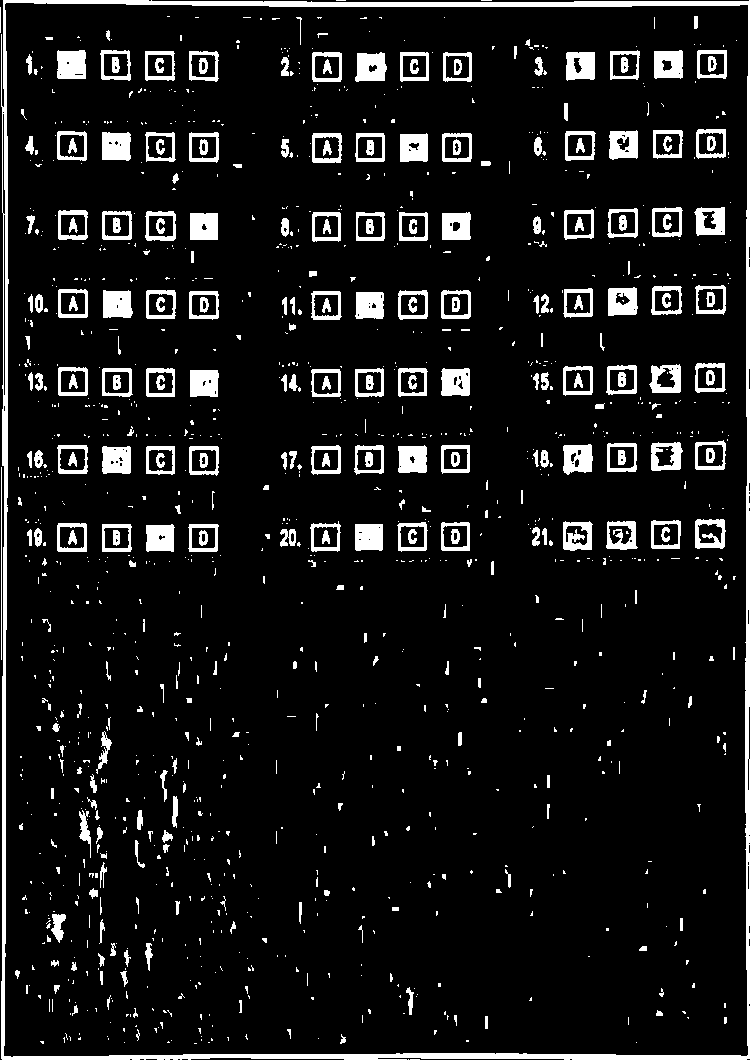
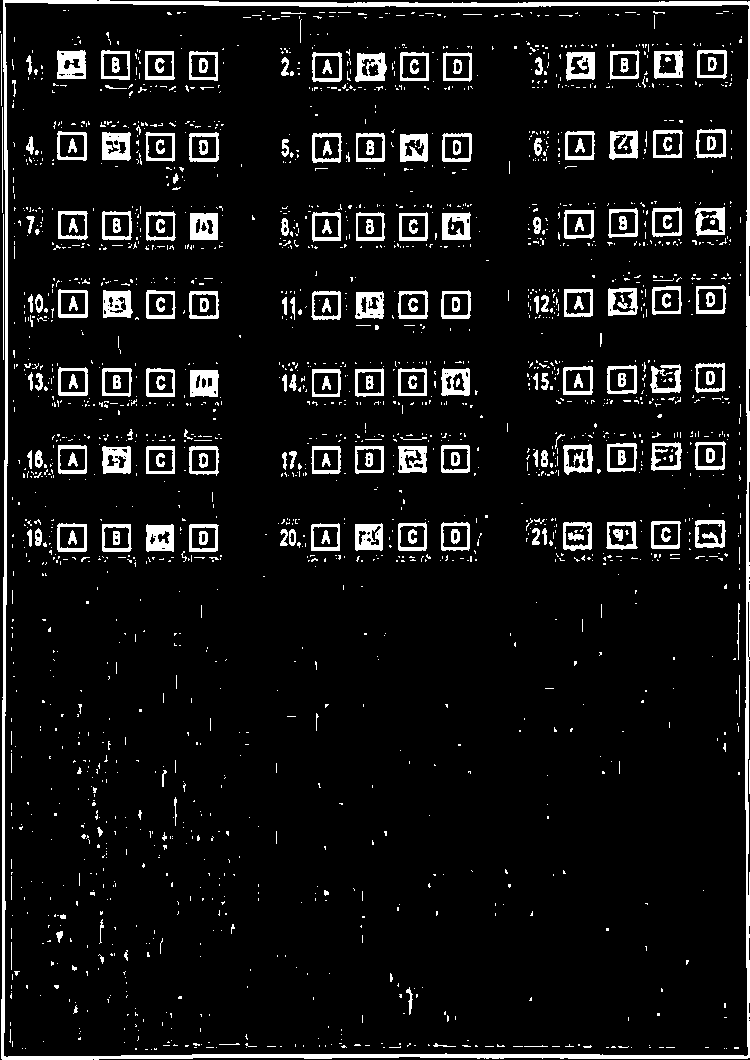
兼容连续出现空白的bug

diff --git a/answer-sheet-scan/utils.py b/answer-sheet-scan/utils.py
@@ -325,31 +325,37 @@ def sort_by_row_hs2(cnts_pos):
     cell_width = get_median([x[2] for x in queues])
     #3.对队列里面的值有效性和完整性进行判断和修复
     
-    final_rows = []
-    insert_cnt = 0
-    first_cell = queues[0]
-    if checkRect(first_cell, (min_left,min_top,cell_width,cell_height)) == 1:
-        final_queue = [first_cell]
-    else:
-        final_queue = [(min_left,min_top,cell_width,cell_height)] #自己补全第一个
-    for i,pos in enumerate(queues[1:]):
-        last_rect = final_queue[-1]#取队列里面倒数第一个
-        if (i+1+insert_cnt) % settings.CHOICE_COL_COUNT == 0 and (i+insert_cnt) > 1:# 一行第一个元素
+    final_queue = []
+    insert_cnt = 0        
+    ## 算法一    
+    i = 0
+    while i+ insert_cnt < settings.CHOICE_CNT_COUNT -1 and i < len(queues):
+        if (len(final_queue) >0):
+            last_rect = final_queue[-1]
+        else:
+            last_rect = queues[0]
+        if i == 0: #第一个选项
+            print '++++++' + str(i)
+            expect_rect =  (min_left,min_top,cell_width,cell_height) #预估计矩形
+        elif (i+insert_cnt) % settings.CHOICE_COL_COUNT == 0 and (i+insert_cnt) > 1:# 非一行第一个元素
             print '----' + str(i)
             expect_rect = (min_left,last_rect[1]+question_margin_y,cell_width,cell_height) #预估计矩形
-        elif (i+1+insert_cnt) % settings.CHOICES_PER_QUE == 0 and (i+1+insert_cnt)% settings.CHOICE_COL_COUNT <> 0 : # 相邻的问题
+        elif (i+insert_cnt) % settings.CHOICES_PER_QUE == 0 and (i+insert_cnt)% settings.CHOICE_COL_COUNT <> 0 : # 相邻的问题
             print '======' + str(i)
             expect_rect = (last_rect[0]+last_rect[2]+question_margin_x,last_rect[1],cell_width,cell_height) #预估计矩形 
         else:
             print '-=-=-=' + str(i)
-            expect_rect = (last_rect[0]+last_rect[2]+choice_margin_x,last_rect[1],cell_width,cell_height)
-        check_result = checkRect(expect_rect,pos)    
+            expect_rect = (last_rect[0]+last_rect[2]+choice_margin_x,last_rect[1],cell_width,cell_height)#同一个问题相邻的选项
+        check_result = checkRect(expect_rect,queues[i])    
         if check_result == 1 or check_result == 3:
-            final_queue.append(pos)
-        elif check_result == 2:
+            final_queue.append(queues[i])
+            i = i + 1   
+        elif check_result == 2:#这里没有考虑连续缺失的情况
             final_queue.append(expect_rect)
-            final_queue.append(pos)
+            #final_queue.append(queues[i])
             insert_cnt += 1
+       
+        
     if len(final_queue) != settings.CHOICE_CNT_COUNT:
         print "题目数量检测错误"
         exit
@@ -358,11 +364,9 @@ def sort_by_row_hs2(cnts_pos):
     choice_row_count = get_choice_row_count()
     count = 0
     rows = []
-    #print type(cnts_pos[0])
     threshold = get_min_row_interval(final_queue)
     for i in range(choice_row_count):
         cols = final_queue[i * settings.CHOICE_COL_COUNT - count:(i + 1) * settings.CHOICE_COL_COUNT - count]
-        # threshold = _std_plus_mean(cols)
         temp_row = [cols[0]]
         for j, col in enumerate(cols[1:]):
             temp_row.append(col)

diff --git a/answer-sheet-scan/main.py b/answer-sheet-scan/main.py
@@ -13,3 +13,5 @@ if len(sys.argv) == 5:
     get_answer_from_sheet(base_img)
 else:
     print "param count not right"
+    
+    
